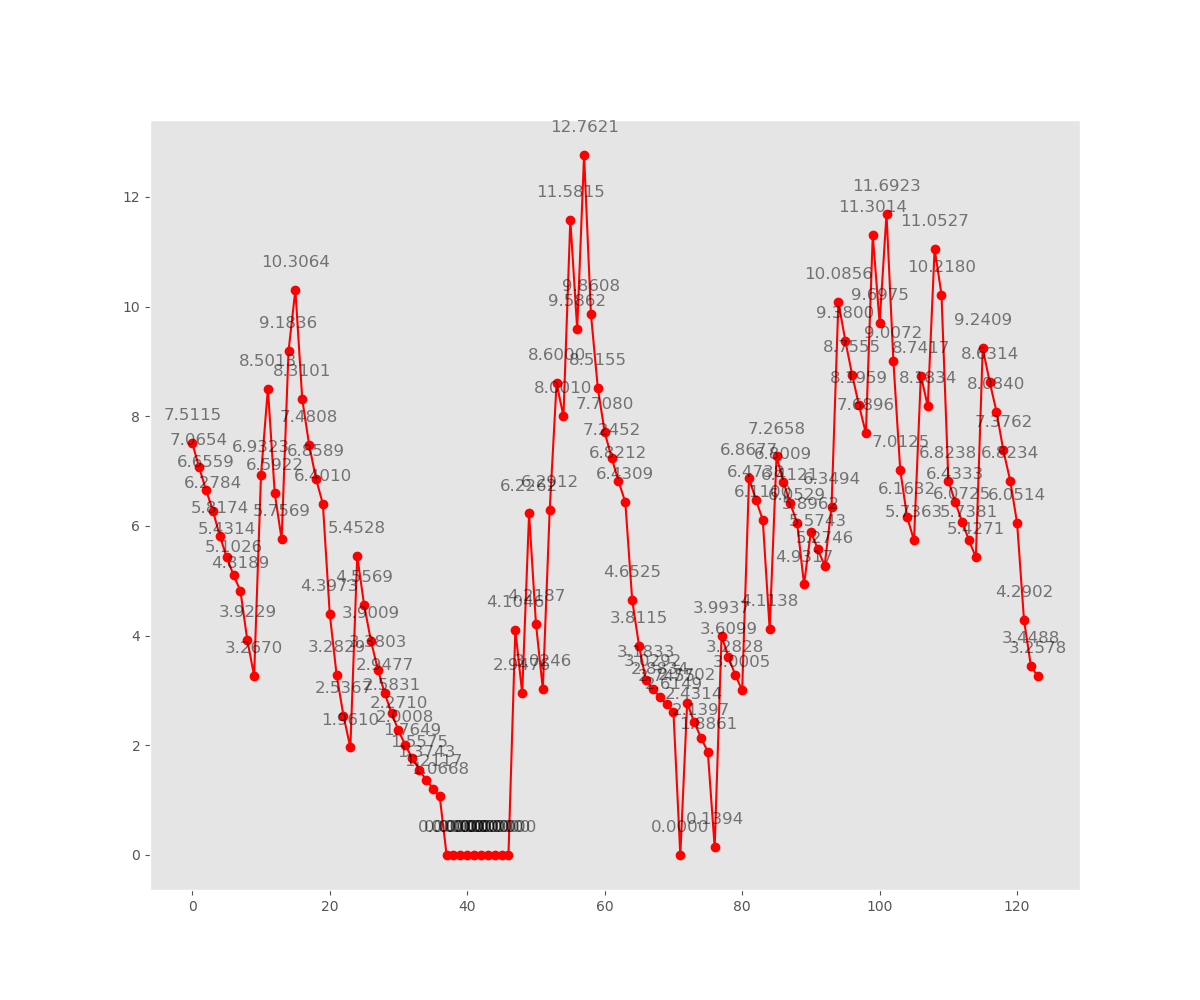
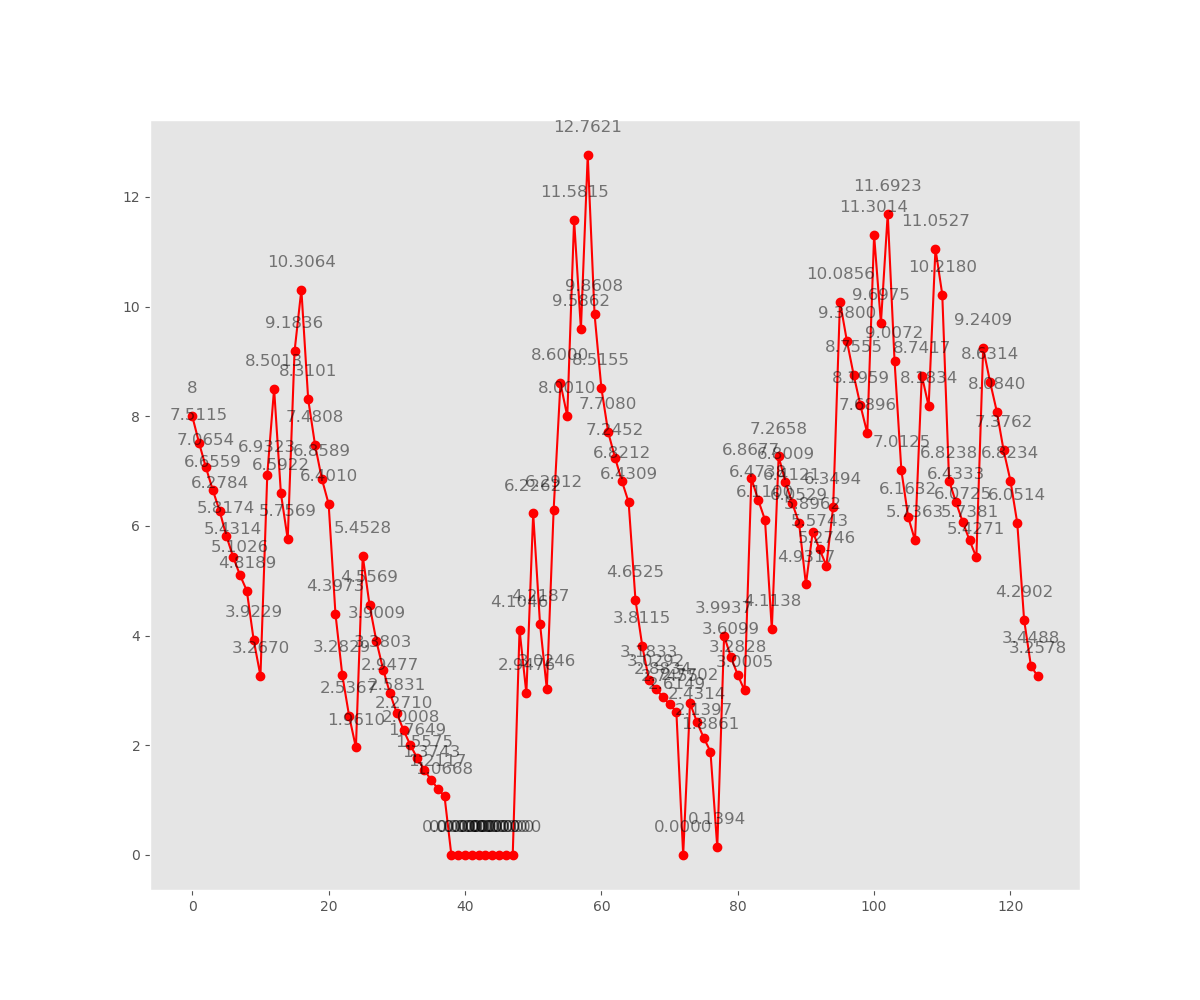
Updated figures and code

diff --git a/testing.py b/testing.py
@@ -1,0 +1,43 @@
+import pymysql
+import sys
+import datetime
+
+# Database connection
+connection = pymysql.connect(host="localhost",user="root",passwd="",database="acr_dat")
+__cursor = connection.cursor()
+
+
+"""
+__cursor.execute(f"SELECT * from {sys.argv[1]}")
+
+with open(sys.argv[2], 'w', encoding='utf-8') as file:
+	for row in __cursor.fetchall():
+		file.write(str(row)+'\n')
+"""
+
+"""
+CREATE TABLE 'submission' (
+ 'id' int(11) NOT NULL AUTO_INCREMENT,
+ 'problem_id' int(11) DEFAULT NULL,
+ 'user_id' int(11) DEFAULT NULL,
+ 'language' varchar(3) COLLATE utf8_unicode_ci NOT NULL,
+ 'ranking' int(11) DEFAULT NULL,
+ 'status' varchar(3) COLLATE utf8_unicode_ci NOT NULL,
+ 'user_elo' DECIMAL(6,4), 									# NEW
+ 'problem_elo' DECIMAL(6,4), 								# NEW
+ 'submissionDate' datetime NOT NULL,
+ PRIMARY KEY ('id'),
+ KEY 'problem_id' ('problem_id'),
+ KEY 'user_id' ('user_id'),
+ KEY 'submissionDate' ('submissionDate'),
+ KEY 'status' ('status'),
+ CONSTRAINT 'Submission_ibfk_1' FOREIGN KEY ('problem_id') REFERENCES 'problem' ('internalId'),
+ CONSTRAINT 'Submission_ibfk_2' FOREIGN KEY ('user_id') REFERENCES 'users' ('id') ON DELETE SET NULL
+) ENGINE=InnoDB AUTO_INCREMENT=260342 DEFAULT CHARSET=utf8 COLLATE=utf8_unicode_ci
+"""
+
+
+__cursor.execute("ALTER TABLE submission ADD COLUMN user_elo DECIMAL(6,4))")
+__cursor.execute("ALTER TABLE submission ADD COLUMN problem_elo DECIMAL(6,4))")
+
+connection.close()

diff --git a/ACR_Testing.py b/ACR_Testing.py
@@ -88,8 +88,11 @@ def users_evolution():
 	for u in [r[0] for r in __cursor.fetchall()]:
 		__cursor.execute(f"SELECT * from submission where submissionDate >= '2015-09-01 00:00:00' and submissionDate < '2017-09-01 00:00:00' AND user_id={u} AND user_elo IS NOT NULL order by id")
 		y = [x[7] for x in __cursor.fetchall()]
+		y.insert(0,8)
 		ACR_Stats.show_line_plot(range(len(y)), y,f"Users' ELO History\\User({str(u)})Evolution.png")
-		print(u)
+		__cursor.execute(f"SELECT avg(user_elo) from submission where submissionDate >= '2015-09-01 00:00:00' and submissionDate < '2017-09-01 00:00:00' AND user_id={u} AND user_elo IS NOT NULL")
+		avg = __cursor.fetchall()
+		print(u, avg[0])
 
 def main():
 	#train_subjects()

diff --git a/ELO.py b/ELO.py
@@ -8,9 +8,9 @@ def Expectation(Ra, Rb):
 
 def k_factor(x, underdog_won):
 	""" Calculates the K-factor """
-	if x < 1: x = 1 
+	if x <= 1: return 4
 	if underdog_won: 	return math.log2(x) + 4
-	else:				return 4 - (math.log(x)/math.log(2))
+	else:				return 4 - (math.log(x,2))
 
 
 def simulate(ELO_user, ELO_problem, Submission_State):
